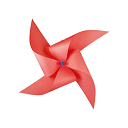
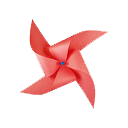
5

diff --git a/static/css/home.css b/static/css/home.css
@@ -40,18 +40,18 @@
     }
     25% {
         -webkit-transform: rotate(90deg);
-        opacity: .75;
-        filter: alpha(opacity = 75);
+        opacity: .6;
+        filter: alpha(opacity = 60);
     }
     50% {
         -webkit-transform: rotate(180deg);
-        opacity: .5;
-        filter: alpha(opacity = 50);
+        opacity: .2;
+        filter: alpha(opacity = 20);
     }
     75% {
         -webkit-transform: rotate(270deg);
-        opacity: .75;
-        filter: alpha(opacity = 75);
+        opacity: .6;
+        filter: alpha(opacity = 60);
     }
     100% {
         -webkit-transform: rotate(360deg);
@@ -264,7 +264,7 @@
     height: 15%;
     margin-top: 10%;
     word-spacing: 16px;
-    font: 24px normal Arial, "微软雅黑";
+    font: 20px normal Arial, "微软雅黑";
     font-family: STXingkai;
 }
 
@@ -305,7 +305,7 @@
         height: 15%;
         margin-top: 8%;
         word-spacing: 8px;
-        font: 16px normal Arial, "微软雅黑";
+        font: 14px normal Arial, "微软雅黑";
     }
 }
 .mask {
